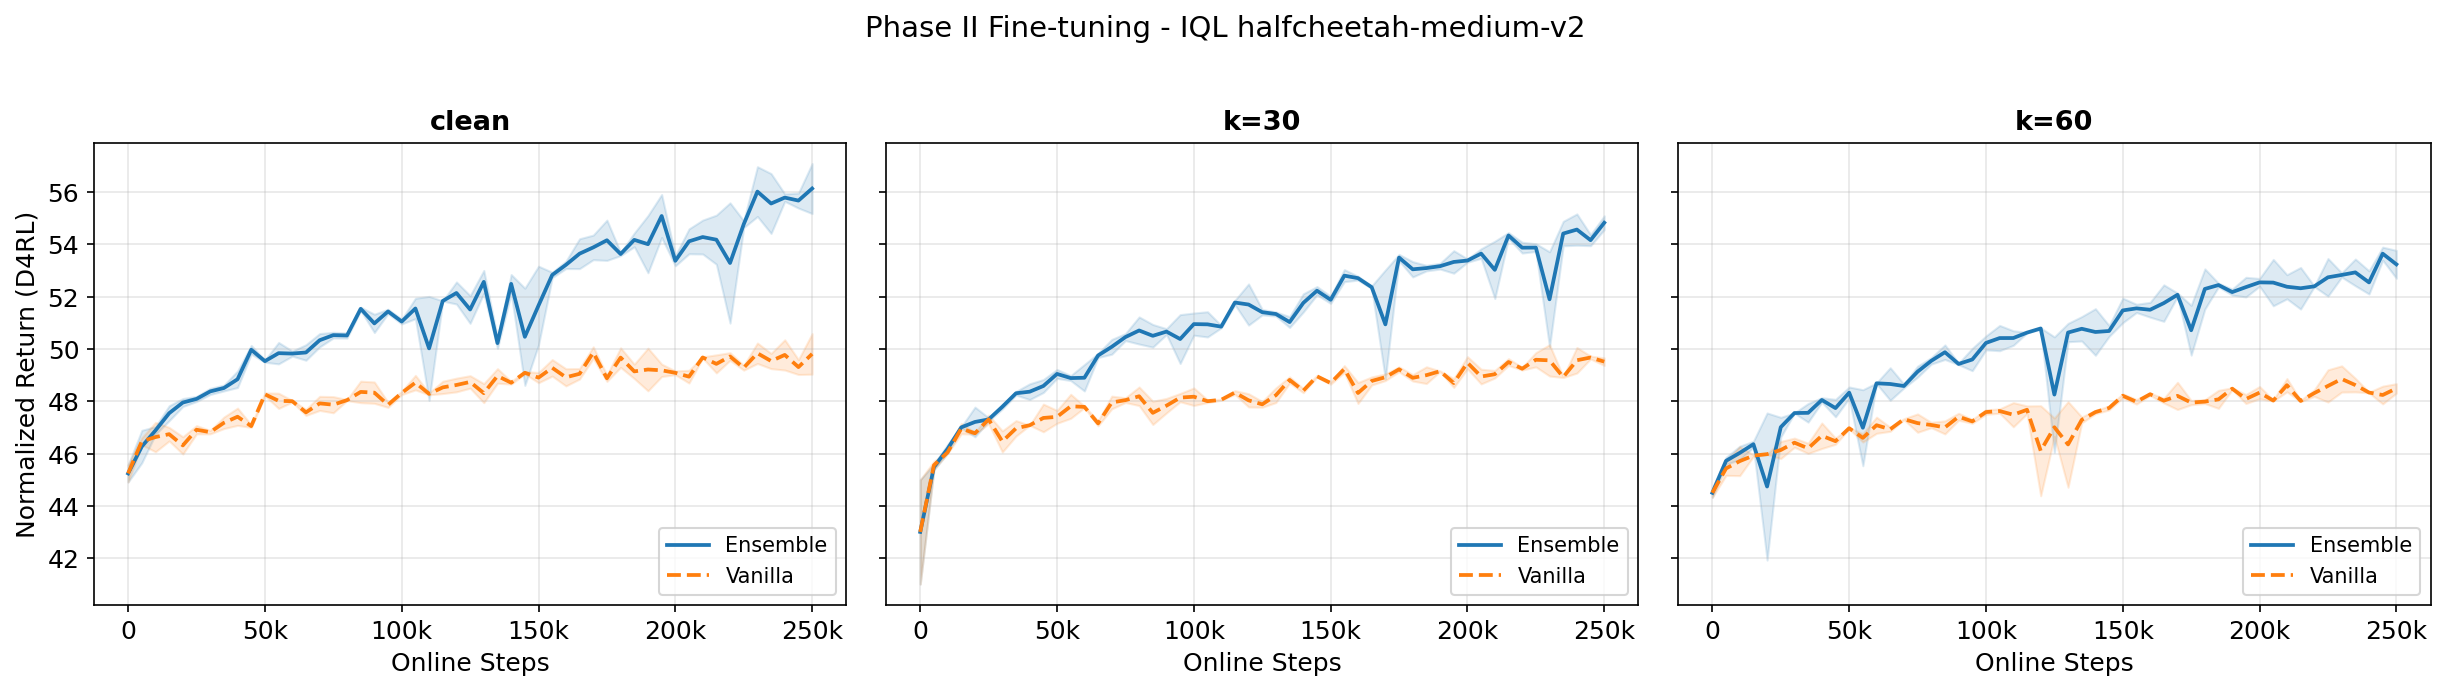
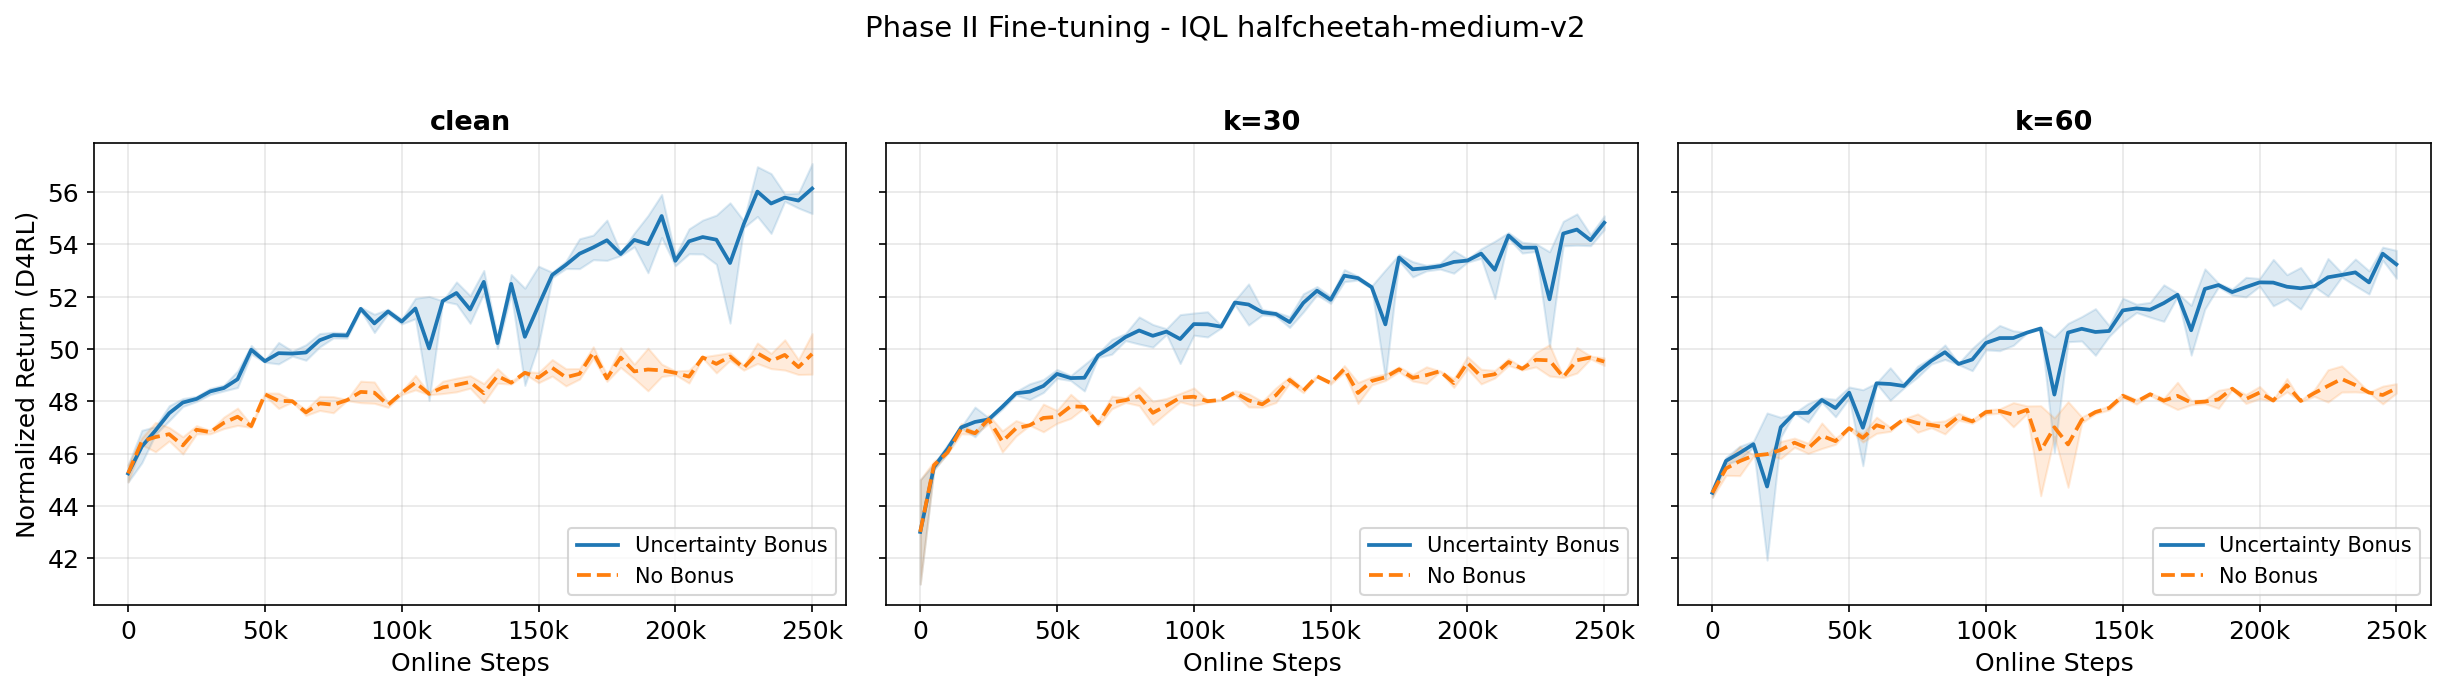
updated plot labels

Changed region(s): [[0.8703, 0.7598, 0.9947, 0.8509], [0.2176, 0.7598, 0.3419, 0.8509], [0.5595, 0.7598, 0.6528, 0.8509]]

diff --git a/src/eval/plotting.py b/src/eval/plotting.py
@@ -252,10 +252,10 @@ def plot_finetuning_curves(
         for label, data in entries.items():
             xs = data[x_key]
             ys = data[y_key]
-            is_vanilla = "vanilla" in label
+            is_vanilla = "no bonus" in label.lower() or "vanilla" in label.lower()
             color = COLORS[1] if is_vanilla else COLORS[0]
             linestyle = "--" if is_vanilla else "-"
-            short_label = "Vanilla" if is_vanilla else "Ensemble"
+            short_label = "No Bonus" if is_vanilla else "Uncertainty Bonus"
             ax.plot(xs, ys, label=short_label, color=color, linewidth=1.8,
                     linestyle=linestyle)
             std_key = y_key + "_std"
@@ -299,7 +299,7 @@ def plot_sample_efficiency(
     means = [data[l]["mean"] for l in labels]
     stds = [data[l]["std"] for l in labels]
 
-    colors = [COLORS[0] if "ensemble" in l else COLORS[1] for l in labels]
+    colors = [COLORS[0] if "bonus" in l.lower() and "no bonus" not in l.lower() else COLORS[1] for l in labels]
     x = np.arange(len(labels))
 
     ax.bar(x, means, yerr=stds, capsize=3, color=colors, alpha=0.8)
@@ -308,11 +308,11 @@ def plot_sample_efficiency(
     ax.set_xticks(x)
     ax.set_xticklabels(labels, rotation=45, ha="right", fontsize=8)
 
-    # Legend for ensemble vs vanilla colors
+    # Legend for bonus vs no-bonus colors
     from matplotlib.patches import Patch
     legend_elements = [
-        Patch(facecolor=COLORS[0], label="Ensemble bonus"),
-        Patch(facecolor=COLORS[1], label="Vanilla (no bonus)"),
+        Patch(facecolor=COLORS[0], label="Uncertainty Bonus"),
+        Patch(facecolor=COLORS[1], label="No Bonus"),
     ]
     ax.legend(handles=legend_elements)
     fig.tight_layout()
@@ -353,9 +353,9 @@ def plot_bonus_comparison(
         van_err = vanilla_stds[algo] if vanilla_stds else None
 
         ax.bar(x - width / 2, ens_vals, width, yerr=ens_err, capsize=4,
-               label="Ensemble", color=COLORS[0], alpha=0.85, edgecolor="white")
+               label="Uncertainty Bonus", color=COLORS[0], alpha=0.85, edgecolor="white")
         ax.bar(x + width / 2, van_vals, width, yerr=van_err, capsize=4,
-               label="Vanilla", color=COLORS[1], alpha=0.85, edgecolor="white")
+               label="No Bonus", color=COLORS[1], alpha=0.85, edgecolor="white")
 
         ax.set_title(algo, fontsize=13, fontweight="bold")
         ax.set_xticks(x)

diff --git a/run_phase2.py b/run_phase2.py
@@ -194,7 +194,7 @@ def generate_plots(
                 mean = arr.mean(axis=0).tolist()
                 std = arr.std(axis=0).tolist()
 
-                bonus_label = "ensemble" if bonus_type == "ensemble" else "vanilla"
+                bonus_label = "uncertainty bonus" if bonus_type == "ensemble" else "no bonus"
                 k_label = f"k={int(k)}" if k > 0 else "clean"
                 label = f"{k_label} ({bonus_label})"
 
@@ -248,7 +248,7 @@ def generate_plots(
                 vanilla_scores,
                 ensemble_stds,
                 vanilla_stds,
-                title=f"Ensemble vs Vanilla - {env}",
+                title=f"Uncertainty Bonus vs No Bonus - {env}",
                 save_path=f"{plot_dir}/bonus_comparison_{env}.png",
             )
             print(f"[plot] Saved bonus comparison for {env}")
@@ -308,7 +308,7 @@ def generate_plots(
                         steps_to_threshold.append(m["step"][-1])
 
                 if steps_to_threshold:
-                    bonus_label = "ensemble" if bonus_type == "ensemble" else "vanilla"
+                    bonus_label = "uncertainty bonus" if bonus_type == "ensemble" else "no bonus"
                     k_label = f"k={int(k)}" if k > 0 else "clean"
                     label = f"{algo.upper()} {k_label} ({bonus_label})"
                     efficiency_data[label] = {
